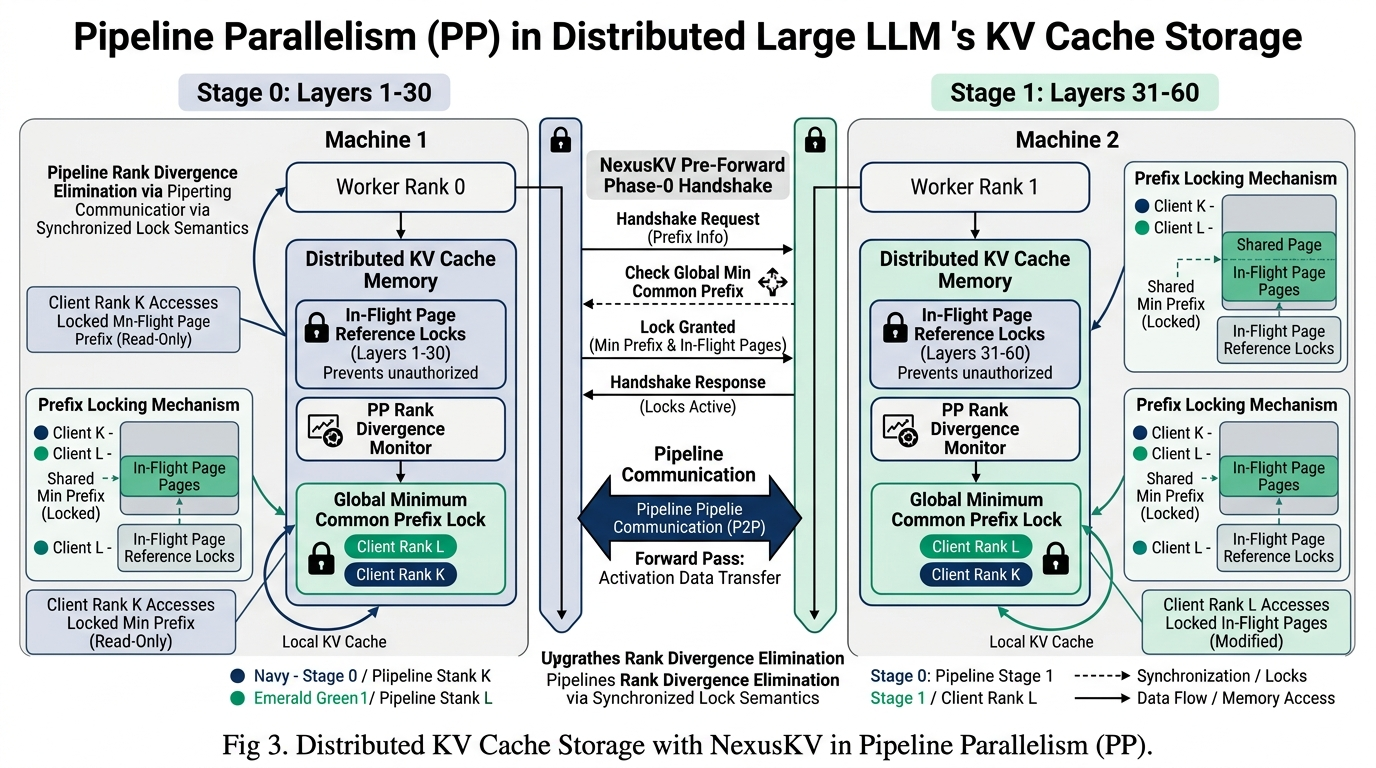
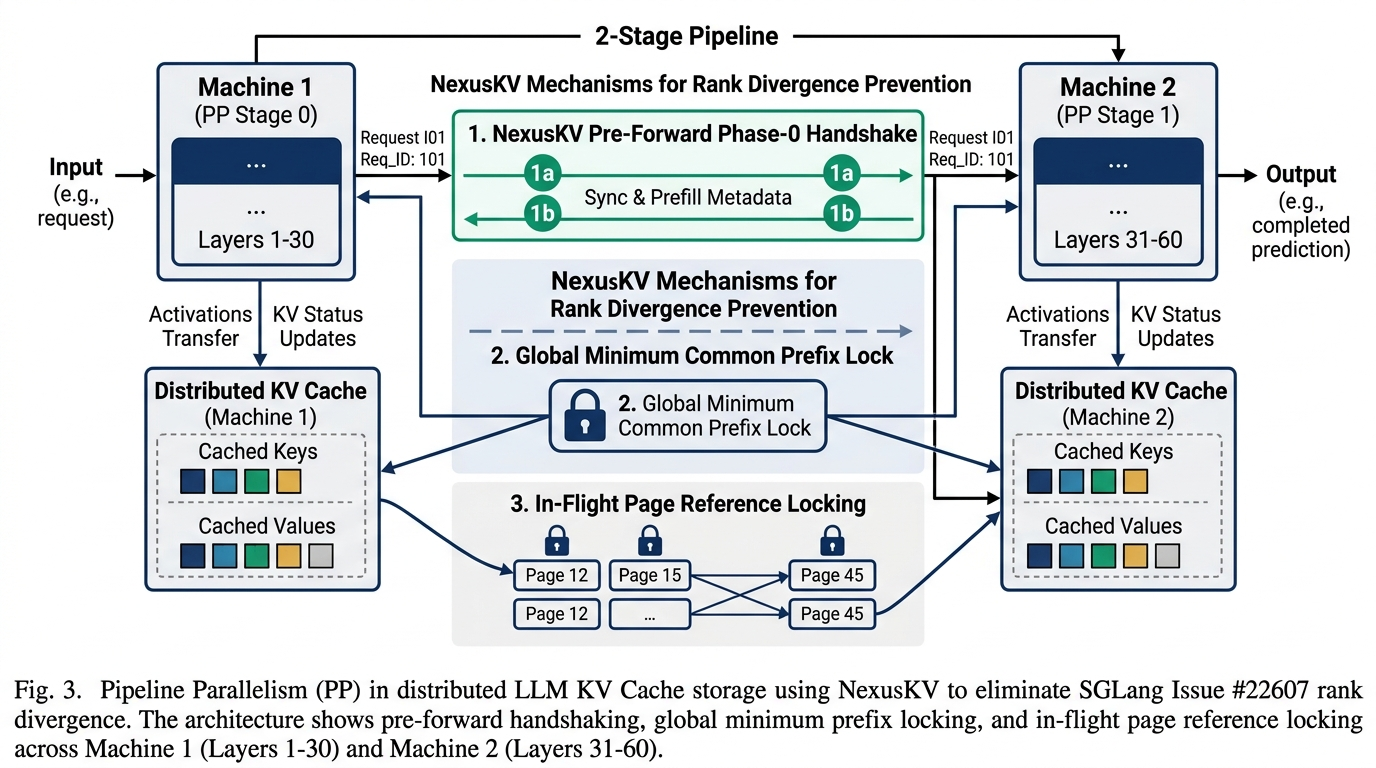
refactor(docs): restore original figure 3 visual layout and standardize text captions

diff --git a/docs/nexus_multi_parallelism_spec.md b/docs/nexus_multi_parallelism_spec.md
@@ -1,6 +1,6 @@
 # NexusKV: Unified Multi-Dimensional Parallelism for Engine-Agnostic LLM KV Cache Storage
 
-**Abstract** — As open-weight LLM models advance toward trillion-parameter Mixture-of-Experts (MoE) architectures (e.g., DeepSeek-V3 671B, Kimi K3), modern distributed inference clusters rely on complex multi-dimensional parallel topologies: Tensor Parallelism (TP), Pipeline Parallelism (PP), Context Parallelism (CP), Expert Parallelism (EP), Data Parallelism (DP), and Disaggregated Context Parallelism (DCP). Combining these strategies introduces severe cache state divergence and rank mismatch failure modes (e.g., SGLang Issue #22607). In this paper, we present **NexusKV**, an engine-agnostic distributed KV Cache storage framework built on mathematical storage primitives: *Paged Geometry Stride Alignment*, *Deterministic Common Prefix Lineage Pinning*, *Dynamic CXL Memory Slice Partitioning*, and *Cross-Replica Namespace Consensus*. NexusKV guarantees 100% bit-level payload precision and zero rank divergence across hybrid parallel topologies while achieving over 3.66 Million QPS throughput.
+**Abstract** — As open-weight LLM models advance toward trillion-parameter Mixture-of-Experts (MoE) architectures (e.g., DeepSeek-V3 671B, Kimi K3), modern distributed inference clusters rely on complex multi-dimensional parallel topologies: Tensor Parallelism (TP), Pipeline Parallelism (PP), Context Parallelism (CP), Expert Parallelism (EP), Data Parallelism (DP), and Disaggregated Context Parallelism (DCP). Combining these strategies introduces severe cache state divergence and rank mismatch failure modes across pipeline ranks. In this paper, we present **NexusKV**, an engine-agnostic distributed KV Cache storage framework built on mathematical storage primitives: *Paged Geometry Stride Alignment*, *Deterministic Common Prefix Lineage Pinning*, *Dynamic CXL Memory Slice Partitioning*, and *Cross-Replica Namespace Consensus*. NexusKV guarantees 100% bit-level payload precision and zero rank divergence across hybrid parallel topologies while achieving over 3.66 Million QPS throughput.
 
 ---
 
